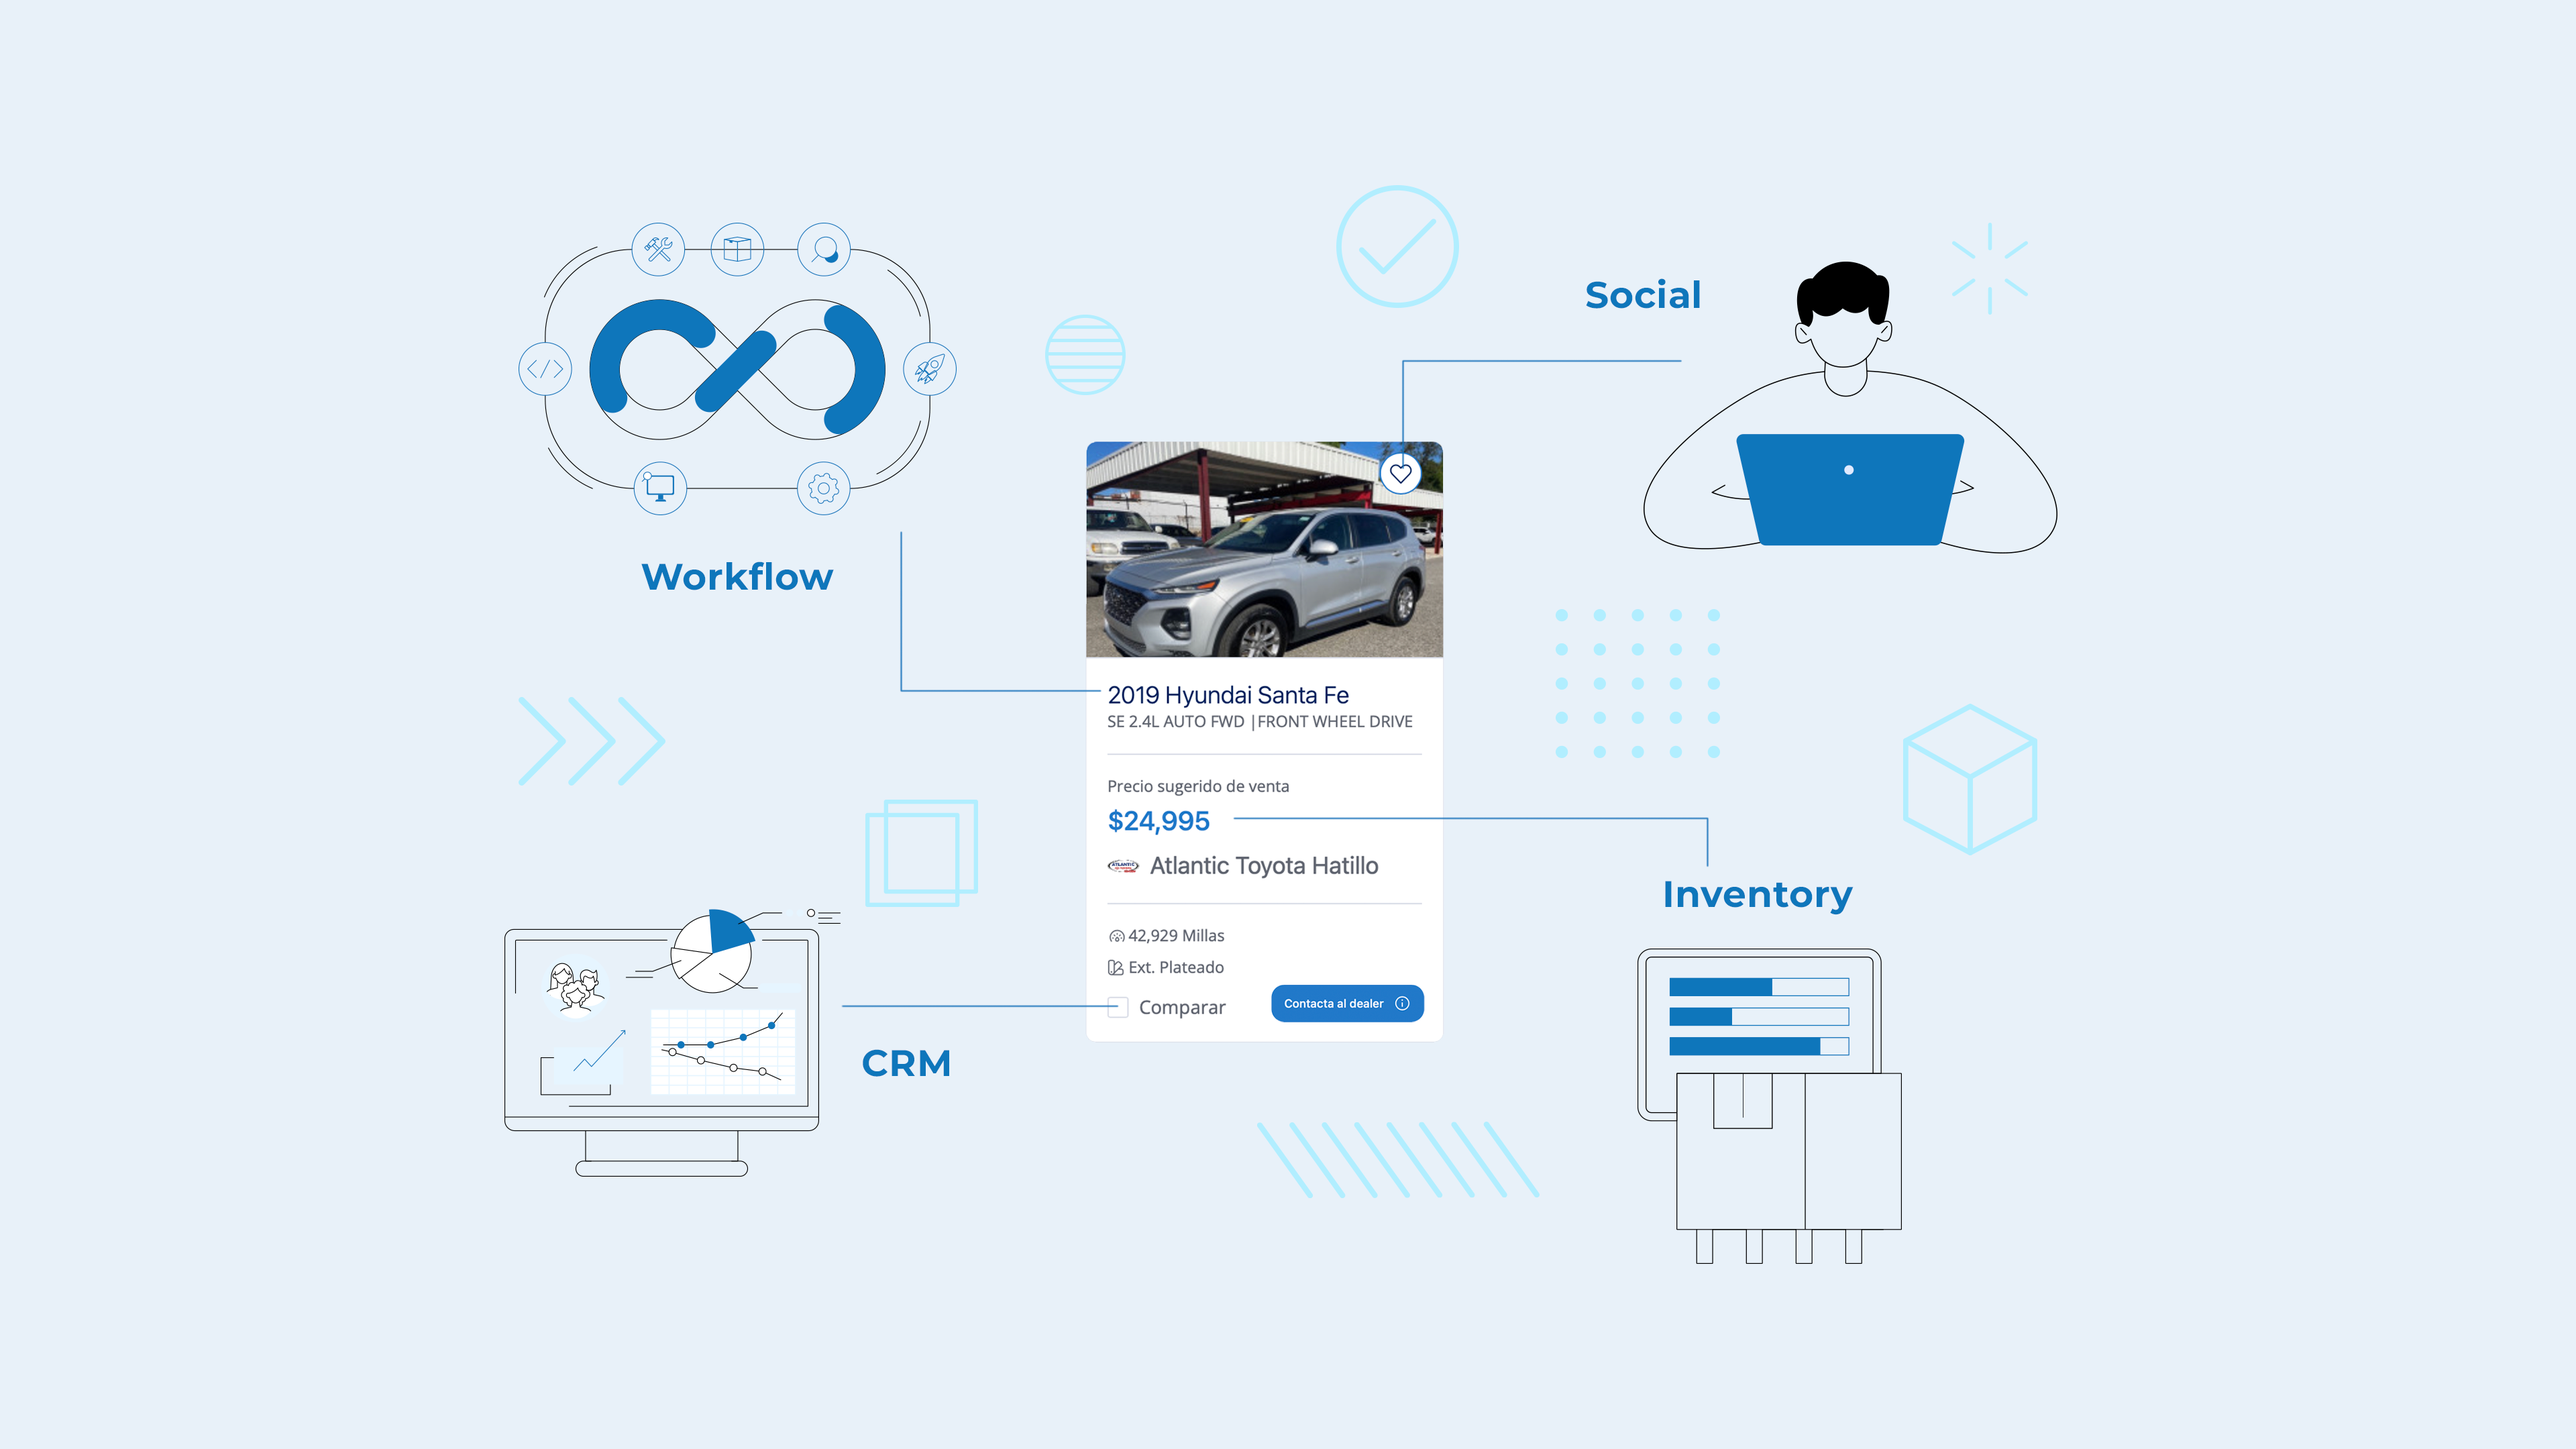
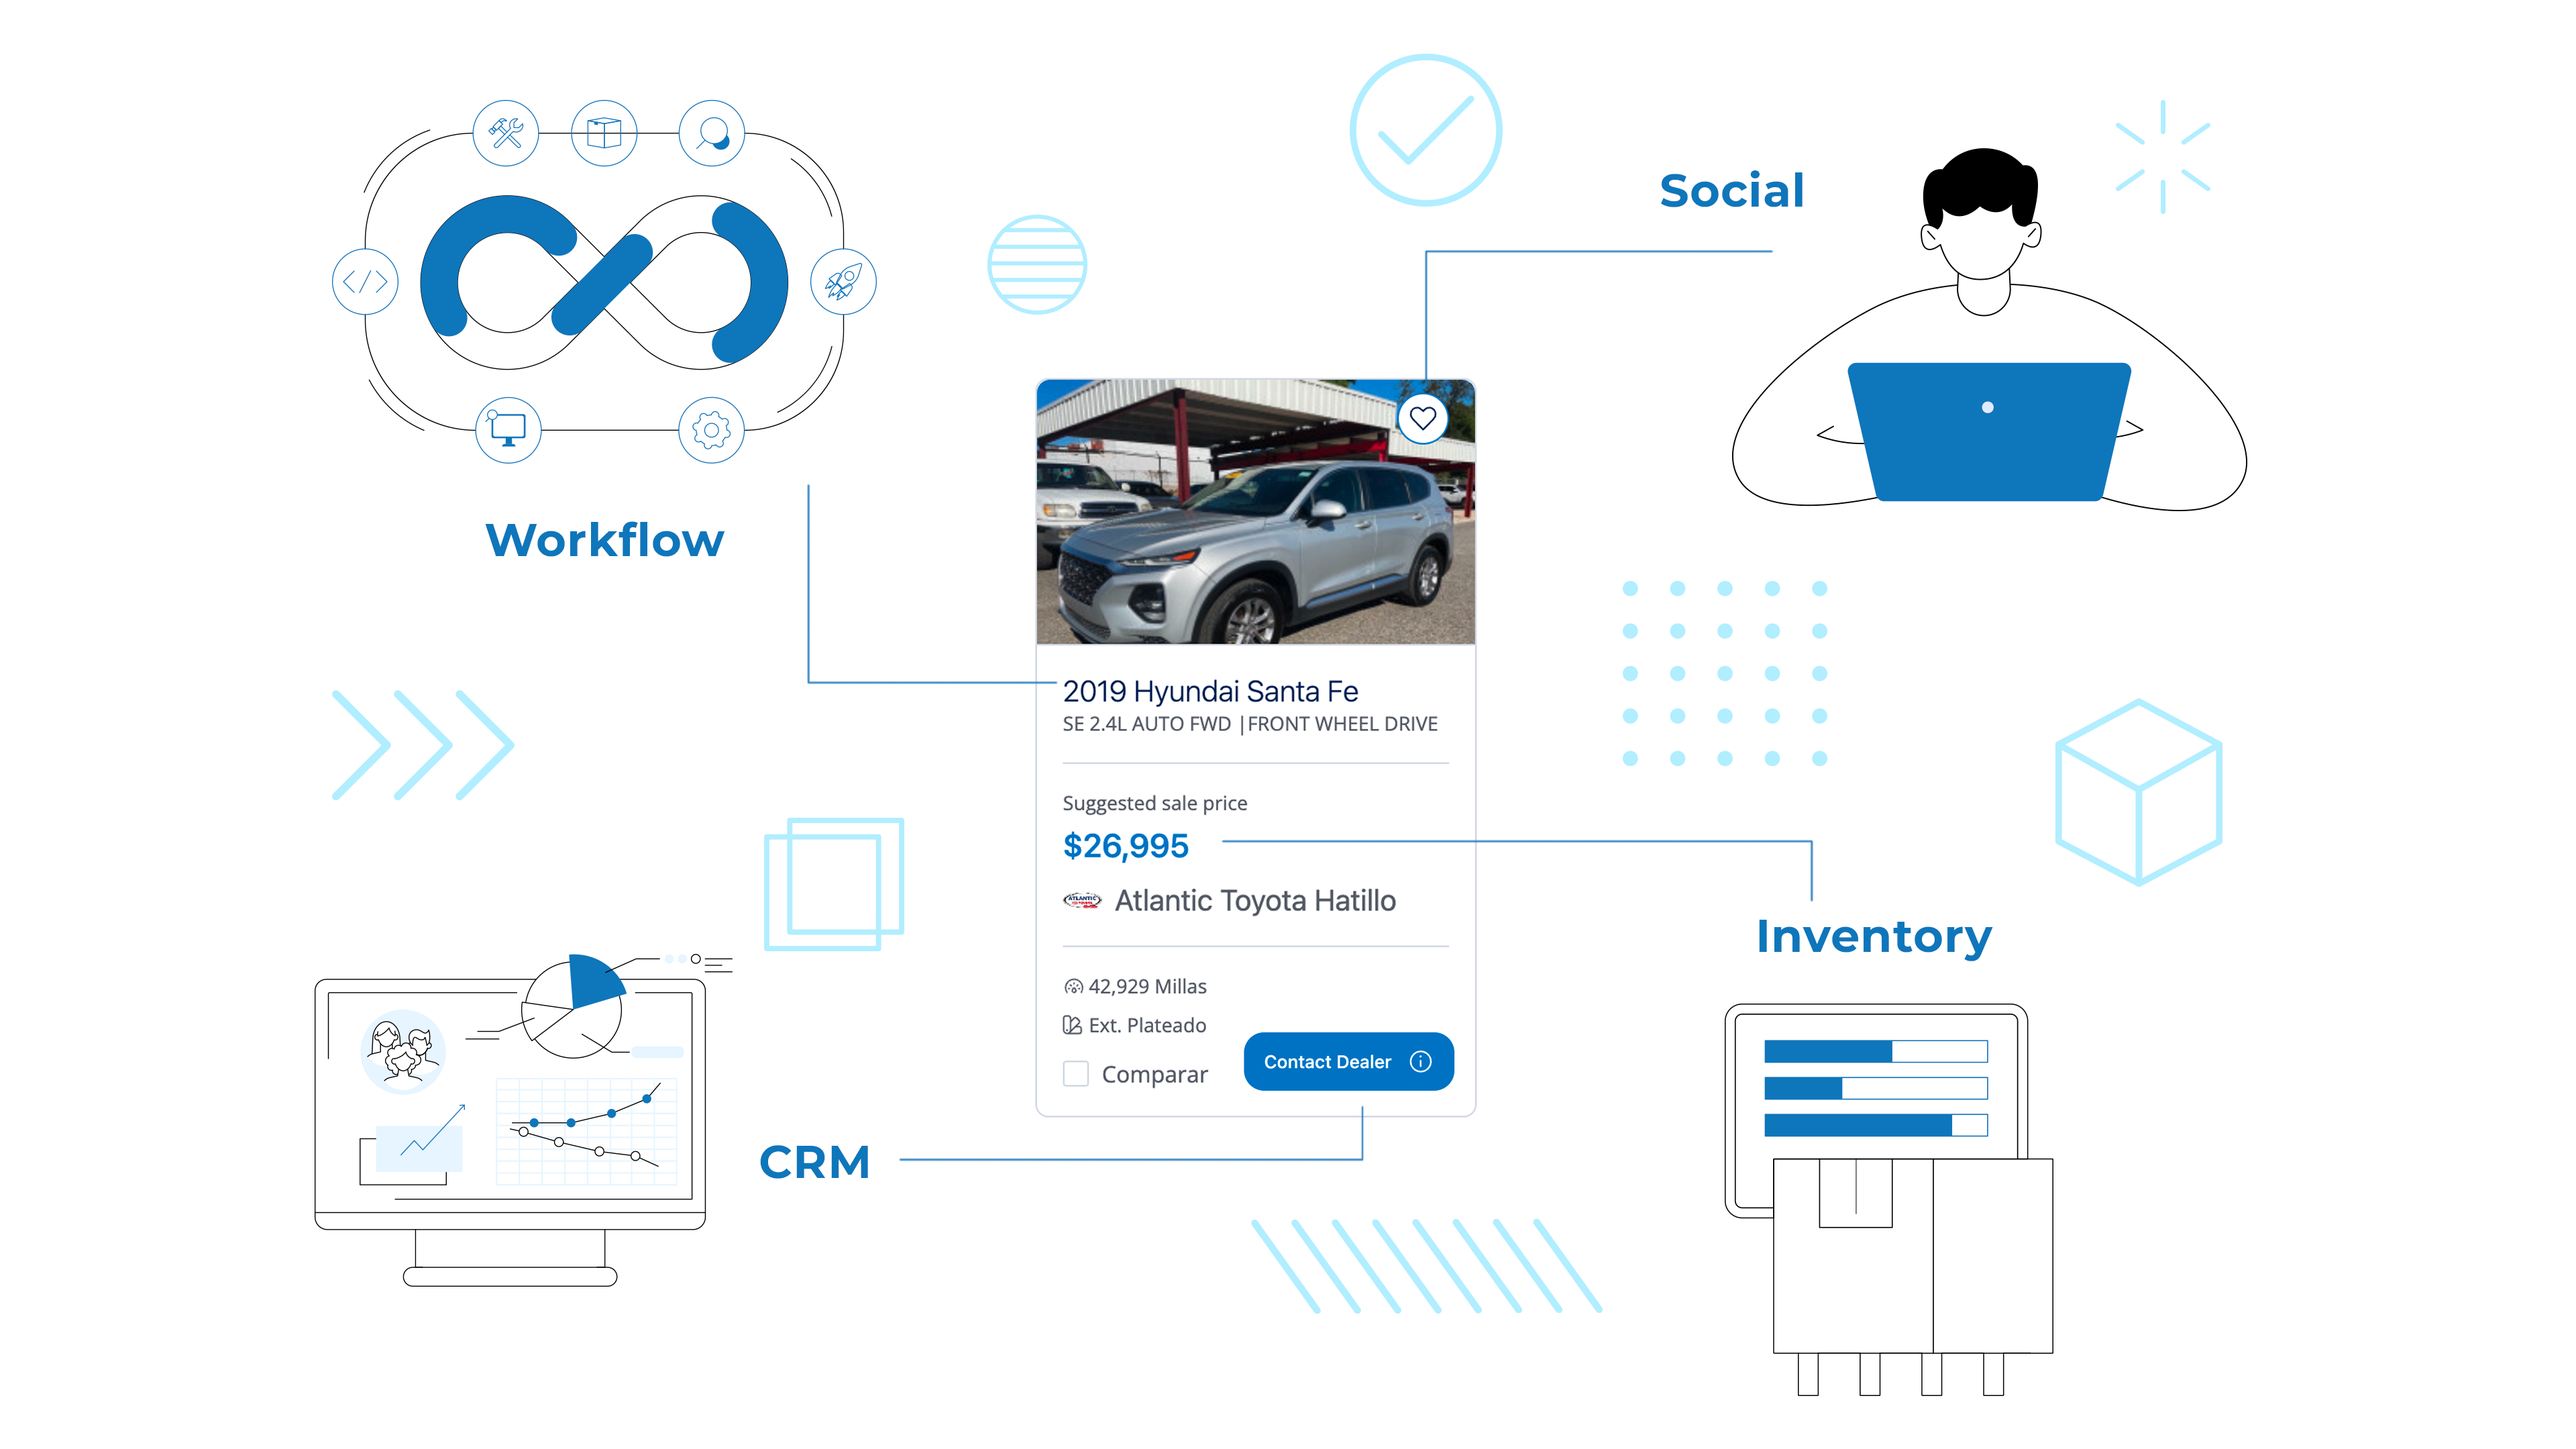
feat: using the new pics

diff --git a/src/model/api/image-data/data.ts b/src/model/api/image-data/data.ts
@@ -10,19 +10,19 @@ interface Action {
 const translateData = Array.from(translate("home.actions"));
 const Data = [
   {
-    url: "/images/actionsKanvas/auth.png",
+    url: "/images/actionsKanvas/Ecosystem.png",
   },
   {
-    url: "/images/actions/e-Forms.webp",
+    url: "/images/actionsKanvas/CRM.png",
   },
   {
-    url: "/images/actions/e-Signature.webp",
+    url:"/images/actionsKanvas/Inventory.png",
   },
   {
-    url: "/images/actions/Product-Sharing.webp",
+    url: "/images/actionsKanvas/Social.png",
   },
   {
-    url: "/images/actions/Request-Referrals.webp",
+    url:"/images/actionsKanvas/auth.png",
   },
 ];
 

diff --git a/src/app/page.tsx b/src/app/page.tsx
@@ -174,7 +174,7 @@ const PAGE_SECTIONS_HOME: Record<string, ReactNode> = {
       title="Your Backend Complement"
       desc="
       Kanvas Niche is not a replacement for your existing development framework or backend-as-a-service. Instead, it complements them by providing specific modules for common problems that you would otherwise need to develop yourself."
-      img="/images/HeroKanvas.png"
+      img="/images/heroKanvas.png"
       colorFonts="text-sky-600"
       back="bg-white"
     />,
